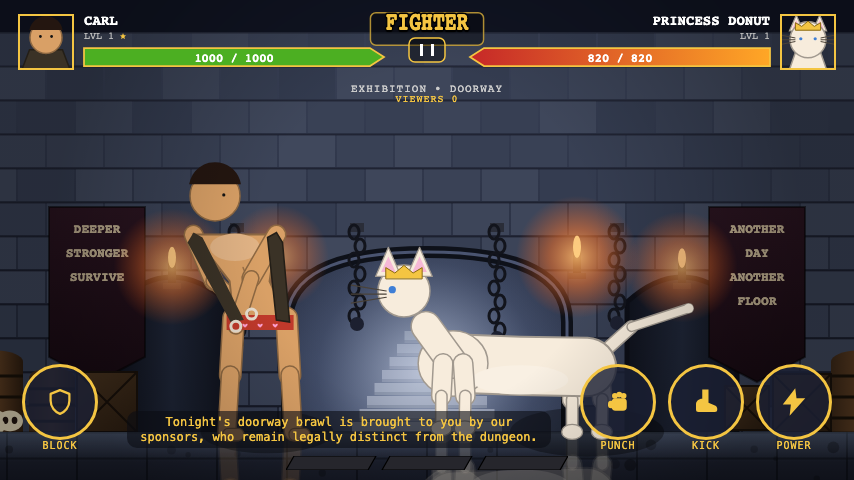
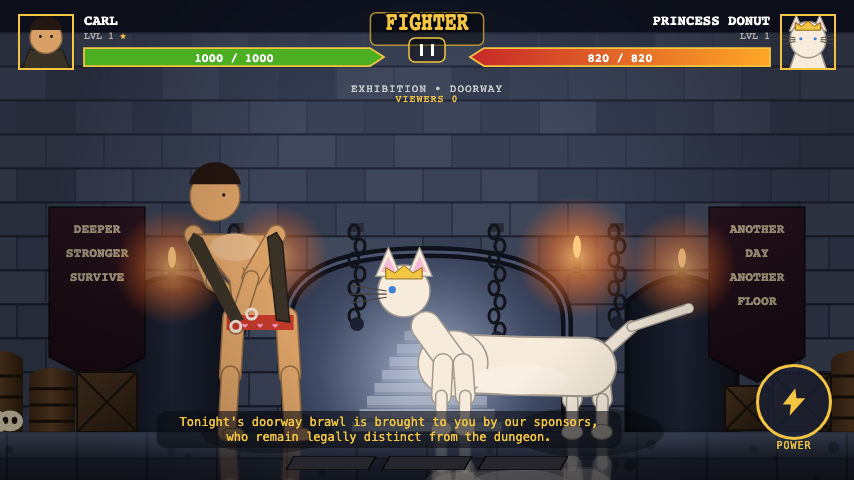
docs: Phase 6 shots and README
Regenerated the full docs/shots/*.png set via tools/shots.sh (42
PNGs) now that Phase 6's gesture-only HUD, REC. LVL map hints, spar
tutorial and leg-strike kicks are all live -- several shots differ
from the pre-Phase-6 versions only because the on-screen attack
buttons are off by default now, which is the intended, current look.
Added shots.sh lines for the tutorial's own deterministic freeze
frames (p6-tutorial-{1,3,shield}.png via --tutorial-shot), which
existed on disk from Task 6.4 but weren't wired into the regeneration
script.

README: swapped the gallery to four current shots (a fight with the
gestures-only HUD, the tutorial's visible spar mode, the map's
REC. LVL hints, a Floor 2 boss fight); CAMPAIGN's bullet now explains
the REC. LVL hint; the keyboard control line spells out that Shift+K
arms the heavy instantly (no hold delay, unlike the touch swipe);
Development section mentions --tutorial-shot and build.py --check.

Changed region(s): [[0.1522, 0.75, 0.8829, 0.9375], [0.0, 0.75, 0.1218, 0.9375], [0.7916, 0.75, 0.8525, 0.7812]]

diff --git a/README.md b/README.md
@@ -8,10 +8,10 @@ One-on-one tap-and-swipe fighter in the Dungeon Crawler Carl universe. Single HT
 
 | | |
 |---|---|
-| ![A fight in progress, Carl vs Goblin Scavenger](docs/shots/p2-goblin.png) | ![Carl vs Grull, the Floor 1 boss](docs/shots/p3-floor1-boss.png) |
-| Floor 1's opening fight | Floor 1's boss door |
-| ![The campaign map: a column of doors up to the boss](docs/shots/p4-map.png) | ![The roster screen: owned champions, stars, level](docs/shots/p4-roster.png) |
-| The campaign map | Your roster |
+| ![A fight in progress, Carl vs Goblin Scavenger, gestures-only HUD](docs/shots/p2-close.png) | ![The tutorial's visible spar mode: SPAR plate, LESSON banner](docs/shots/p5-tutorial-1.png) |
+| A fight in progress — one thumb, gestures-only HUD | The tutorial's own visible sparring session |
+| ![The campaign map: doors show a REC. LVL hint](docs/shots/p4-map.png) | ![Carl vs Mother Rat, Floor 2's boss](docs/shots/p3-floor2-boss.png) |
+| The campaign map, with a REC. LVL hint under every door | Floor 2's boss fight |
 
 ## How to play
 
@@ -25,9 +25,12 @@ until it's been completed once.
 After the tutorial, the title screen offers CAMPAIGN, ARENA, ROSTER, KIOSK, EXHIBITION, and SETTINGS.
 
 - **CAMPAIGN** opens the floor map: a vertical column of doors (five per floor) ending in a **boss
-  door**. Doors unlock left-to-right as you clear the one before them; each costs 1 energy (10 max,
-  regenerating over time) and pays out gold, ISO, and XP for your active champion on a win, plus
-  units and a class catalyst for a boss win. Clearing a floor's boss opens the next floor.
+  door**. Every door and the boss show a **REC. LVL** hint (the recommended level for that fight,
+  turning red once your active champion is below it) — you can still walk in under-leveled, it's
+  just a fair warning, not a hard gate. Doors unlock left-to-right as you clear the one before them;
+  each costs 1 energy (10 max, regenerating over time) and pays out gold, ISO, and XP for your
+  active champion on a win, plus units and a class catalyst for a boss win. Clearing a floor's boss
+  opens the next floor.
 - **ROSTER** shows every champion you own, star rating, rank, and level. LEVEL UP spends ISO,
   RANK UP spends that champion's class catalyst, and SELECT makes a champion the one who actually
   fights doors/arena runs.
@@ -68,13 +71,17 @@ toggle brings them back), and shown automatically during the tutorial's early le
 CONTROLS only mirrors where those buttons sit; gestures read the same regardless of that setting.
 
 **Keyboard** (desktop browsers, for testing or just preference): `J` light, `K` medium (`Shift`+`K`
-dashes in and charges straight into a heavy), `L` (hold) heavy, `A`/`D` dash back, `S` (hold) block,
-`1`/`2`/`3` fire that special, `Space` starts a fight from the title screen, `P` pauses.
+dashes in with a medium and arms the follow-up heavy *instantly* — the keyboard has no hold timing
+to emulate, so unlike the touch swipe-and-hold this skips straight to the heavy with no delay),
+`L` (hold) heavy, `A`/`D` dash back, `S` (hold) block, `1`/`2`/`3` fire that special, `Space` starts
+a fight from the title screen, `P` pauses.
 
 ## Development
 
 - Edit files in `src/`, then `python3 tools/build.py` writes `index.html`. Never hand-edit
   `index.html` — it's a generated, concatenated build of every `src/*.js`/`*.html` file.
+  `python3 tools/build.py --check` builds without writing, exiting non-zero if the build would
+  differ from the committed `index.html`.
 - `python3 tests/harness.py --unit` runs the in-page unit tests headless (Python Playwright driving
   a real headless Chromium against `index.html`, no npm/node toolchain).
 - `python3 tests/harness.py --sim --seconds 60 --bot random --ai basic` soaks the fight loop for a
@@ -92,7 +99,9 @@ dashes in and charges straight into a heavy), `L` (hold) heavy, `A`/`D` dash bac
   horizontally at an 844×390 CSS-px landscape-phone viewport.
 - `python3 tests/harness.py --screen <name> --shot out.png` screenshots any menu screen
   (`title|map|roster|crystal|shop|arena|settings`) without starting a fight; `--pose <key> --shot
-  out.png` freezes a fighter in a named rig pose for a clean reference shot.
+  out.png` freezes a fighter in a named rig pose for a clean reference shot; `--tutorial-shot
+  {1,3,shield} --shot out.png` freezes one of three deterministic tutorial frames (lesson 1's SPAR
+  plate, lesson 3's red wind-up flash, the SHIELD DOWN moment) for a clean reference shot.
 - `python3 tests/batch.py --n 30 --ai t1,t2,t3,t4,t5` runs the seeded win-rate table against
   `Ctrl.competent` across the AI difficulty tiers (and, by default, every floor node/boss), gating on
   a monotone non-increasing curve.
